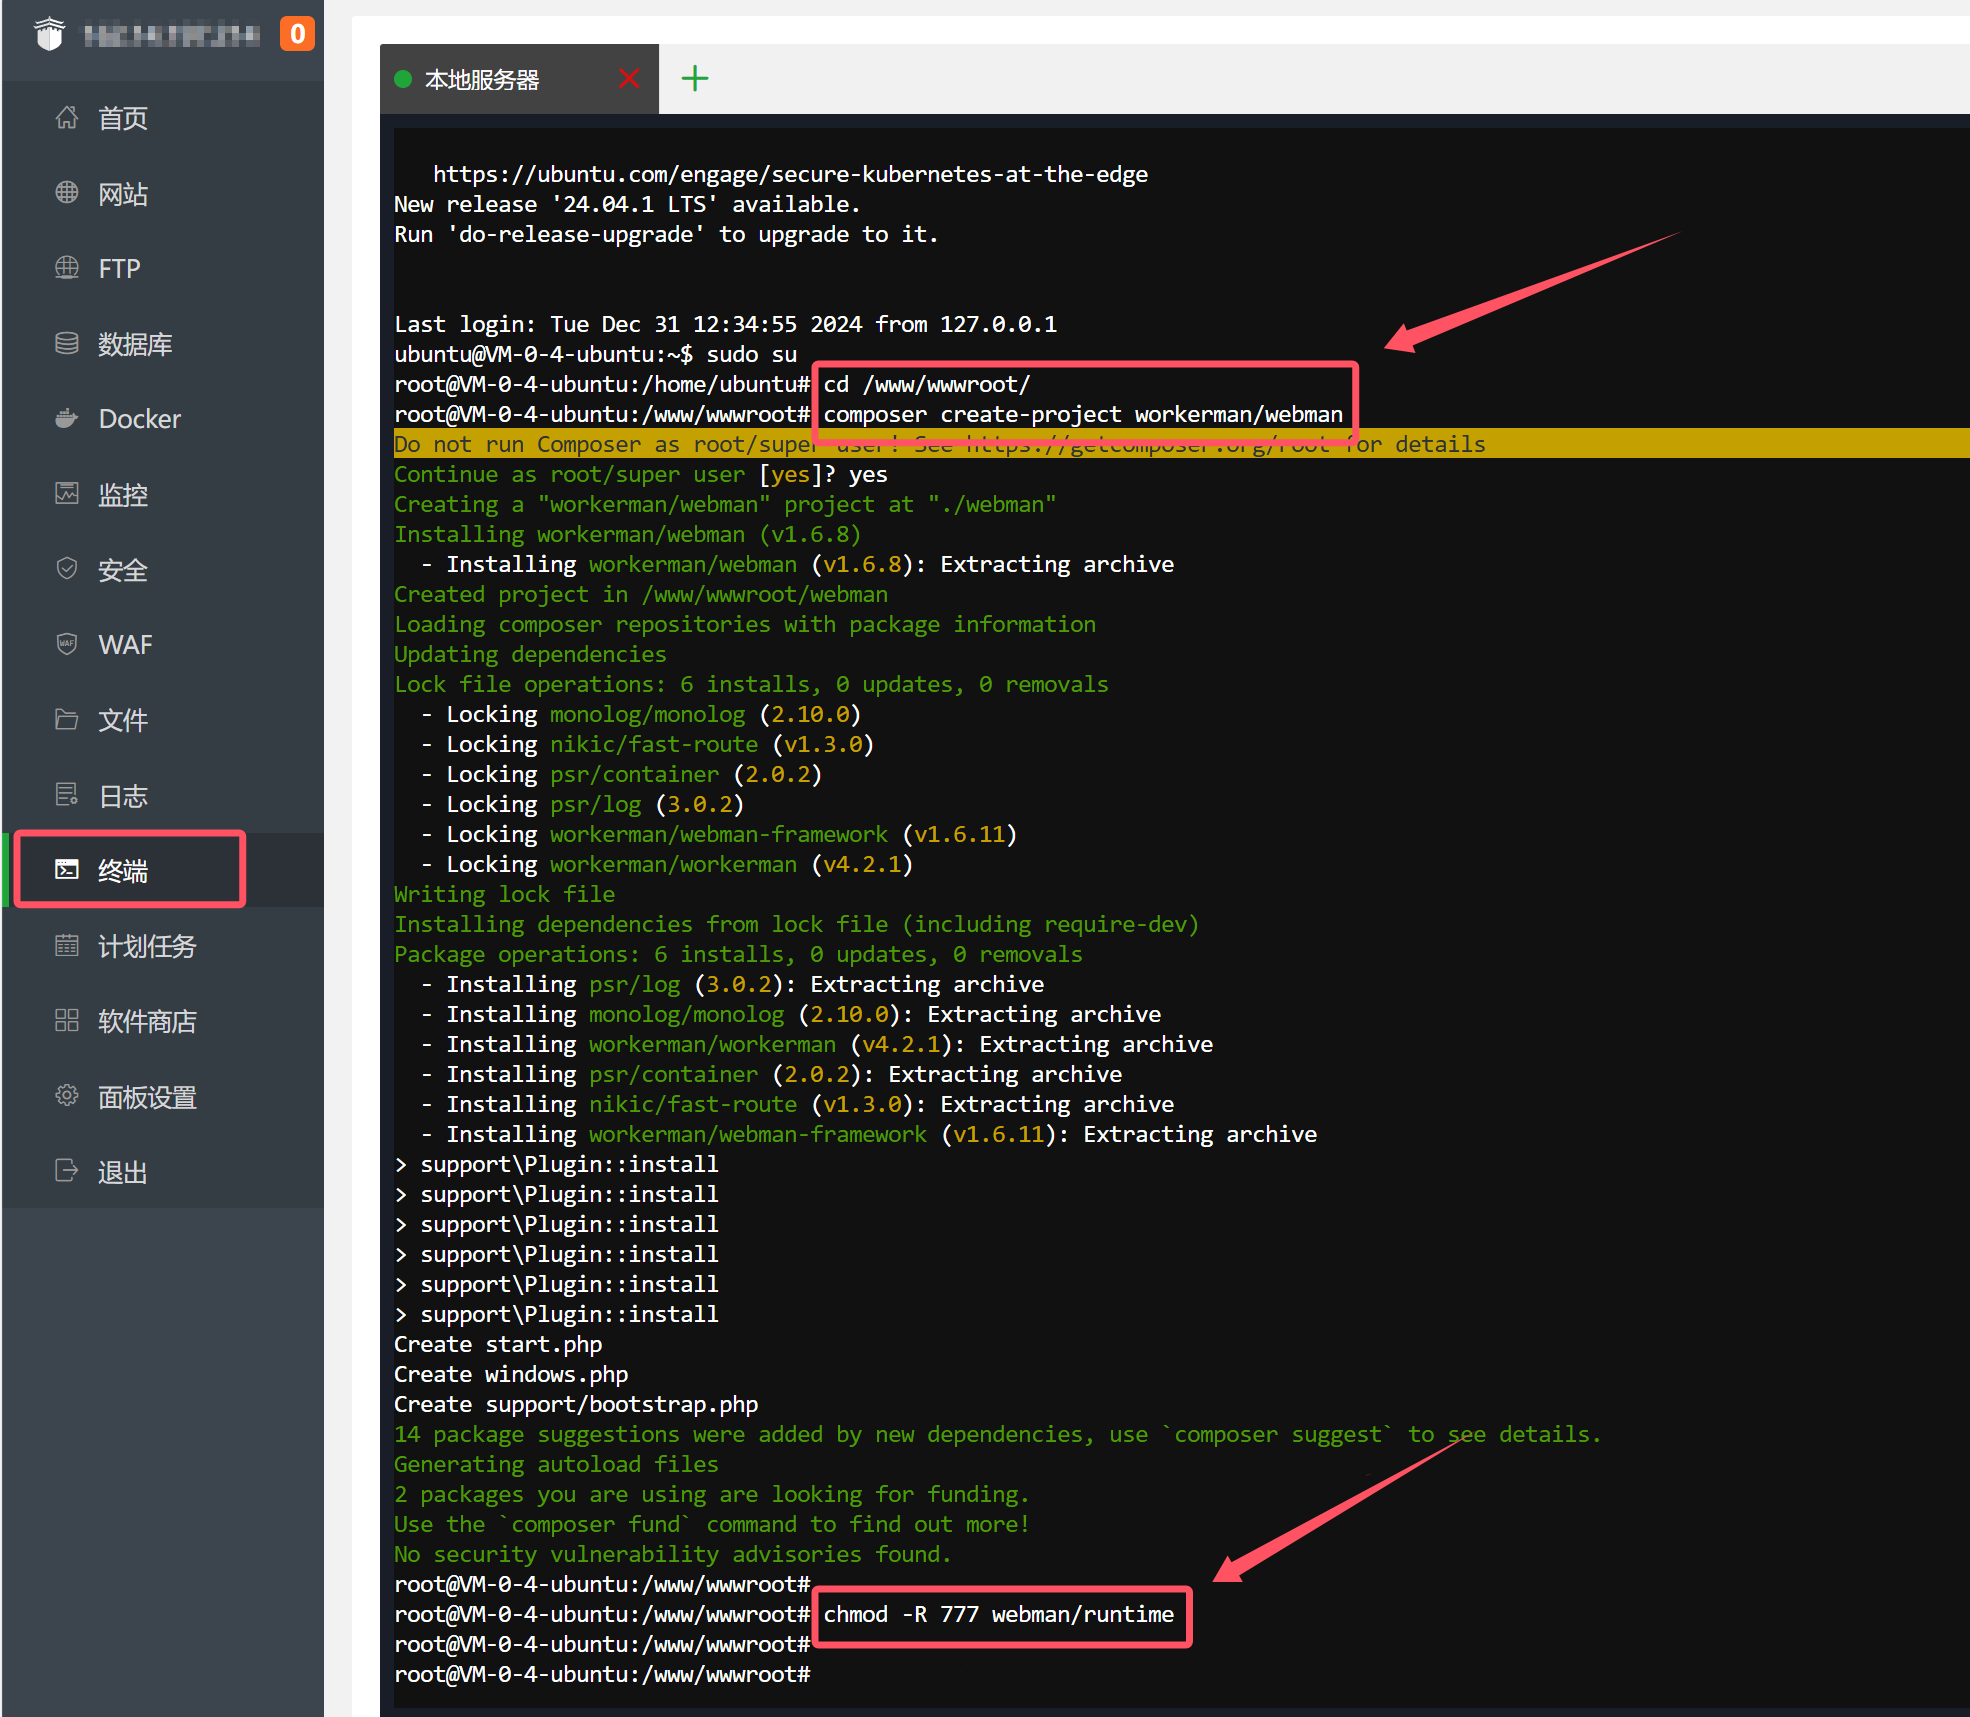
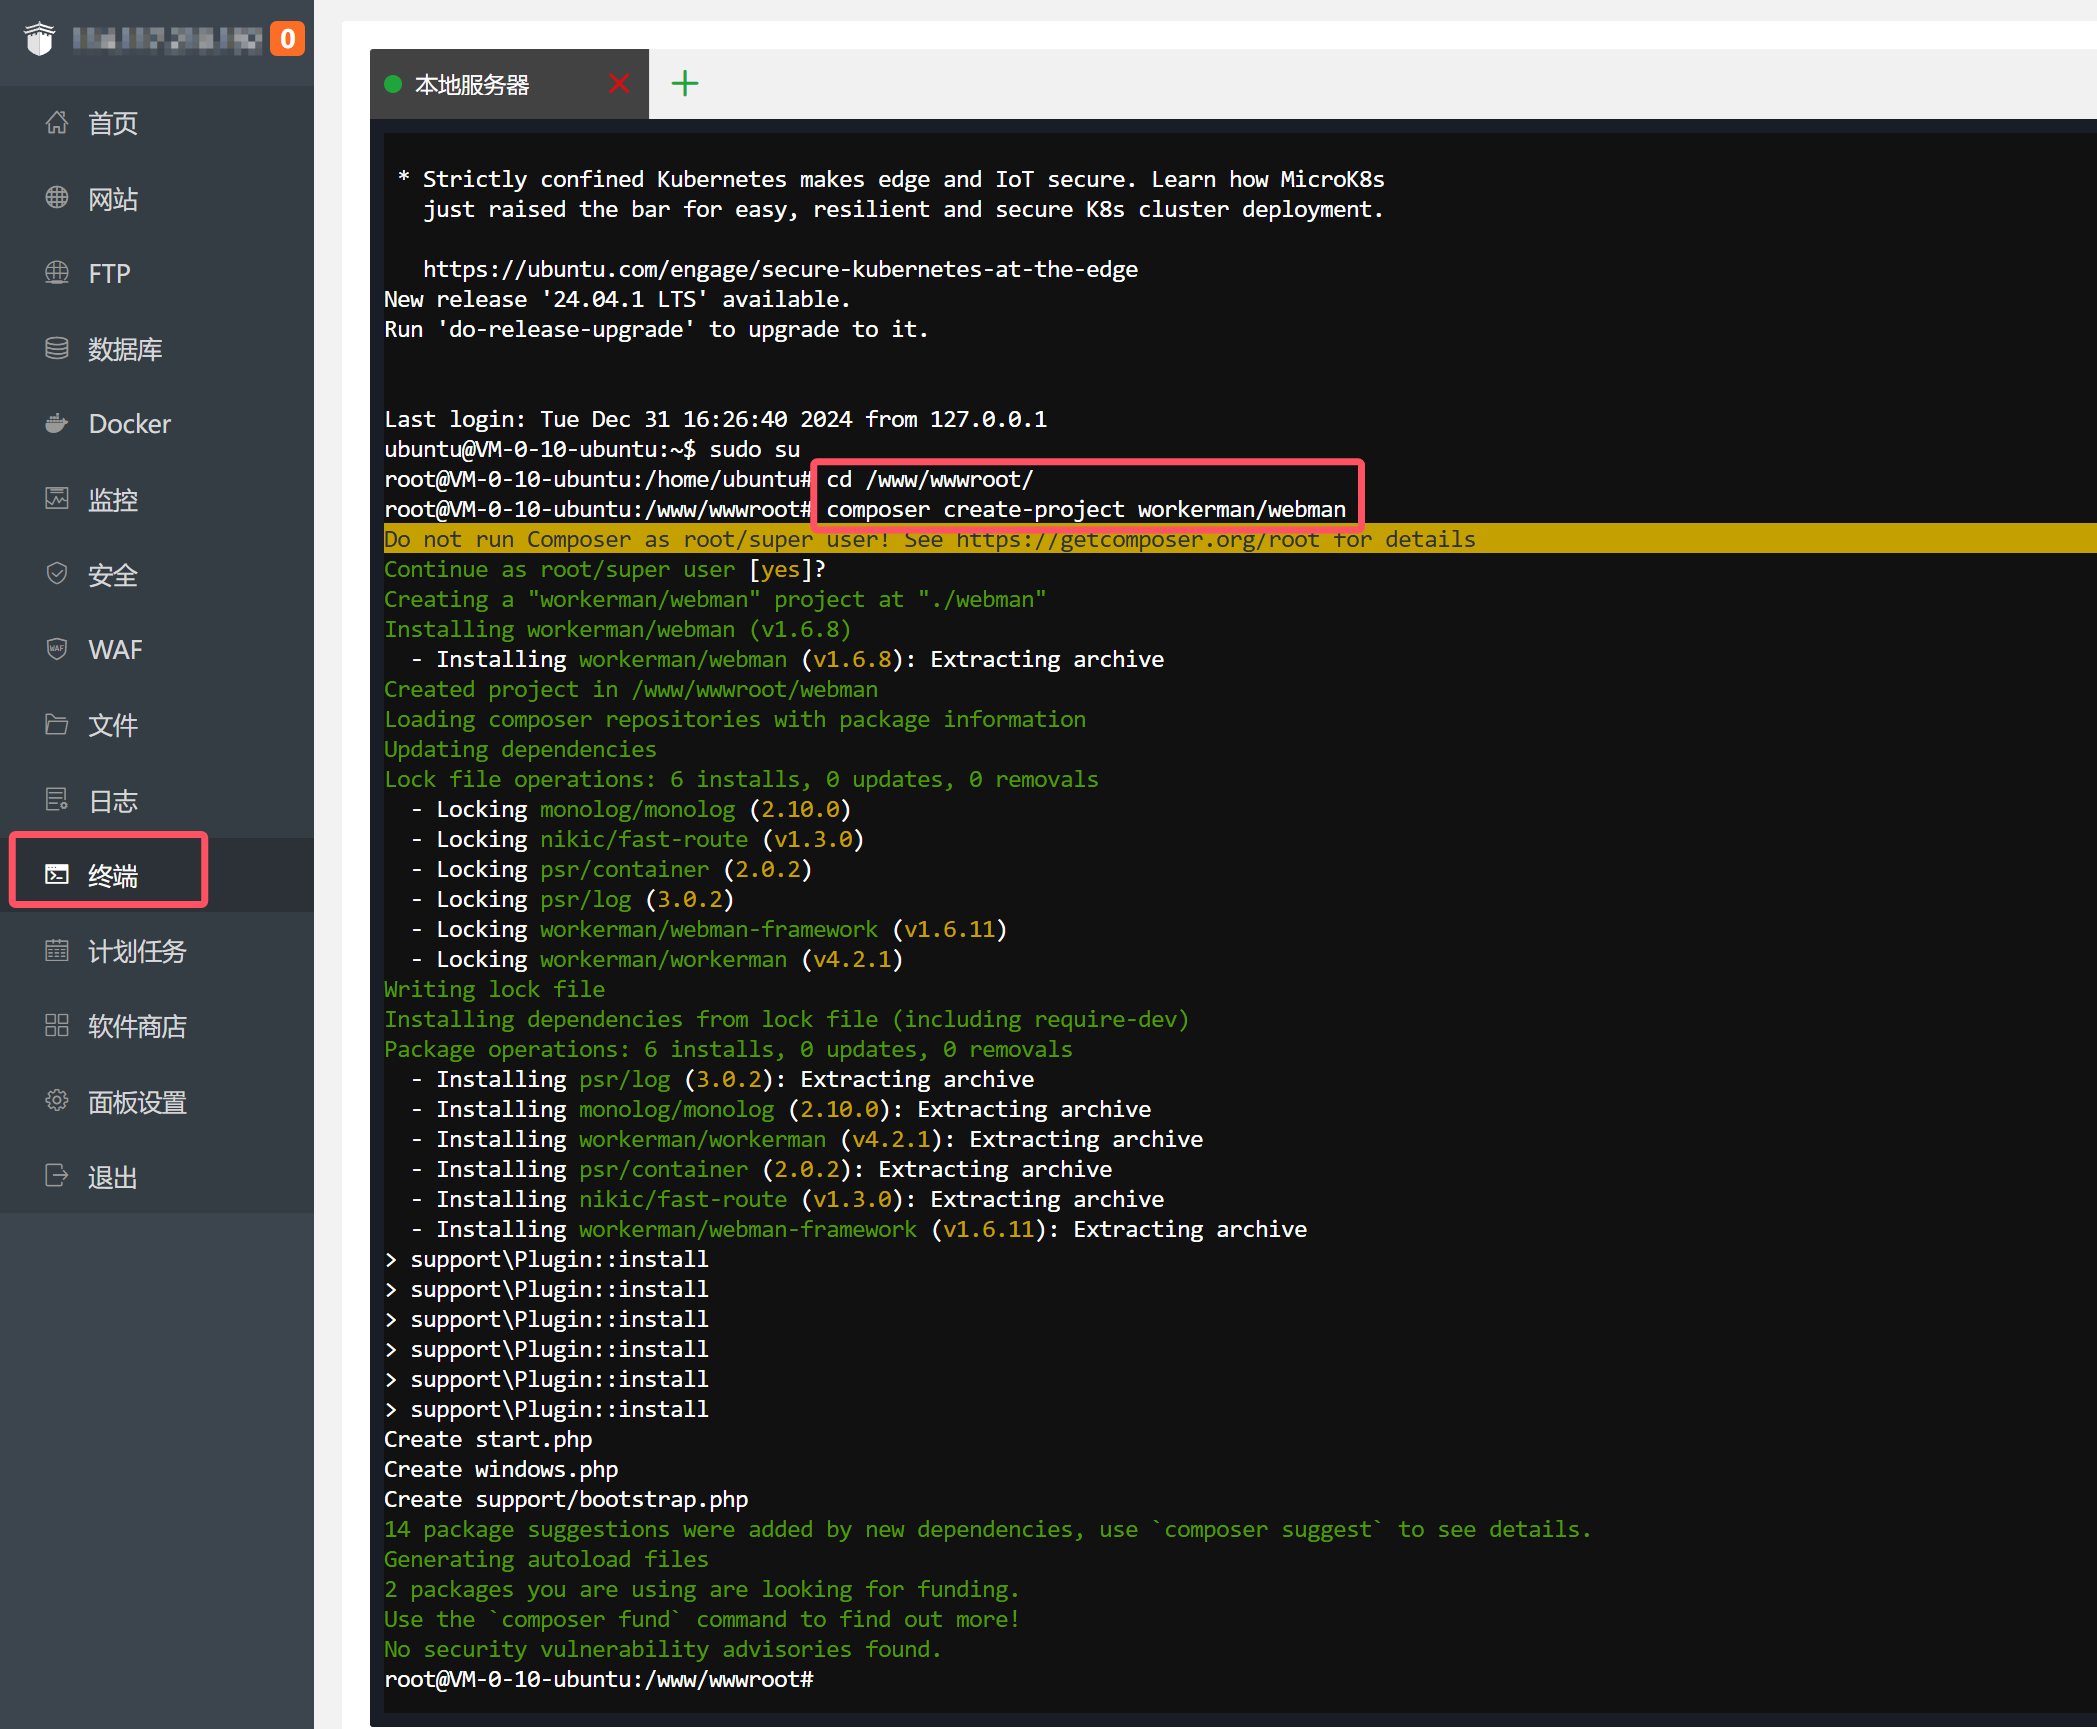
宝塔教程

diff --git a/resource/doc/zh-cn/bt-install.md b/resource/doc/zh-cn/bt-install.md
@@ -11,7 +11,6 @@
 ```php
 cd /www/wwwroot
 composer create-project workerman/webman
-chmod 777 webman/runtime -R
 ```
 
 ### 2. 设置网站
@@ -52,10 +51,18 @@ chmod 777 webman/runtime -R
   }
 ```
 
-### 6. 重启服务
+### 6. 给runtime可写权限
+
 ![](../assets/img/bt-install-6.png)
 
+```
+chmod -R 777 /www/wwwroot/webman/runtime
+```
 
-### 7. 访问站点
+### 7. 重启服务
+![](../assets/img/bt-install-7.png)
+
+
+### 8. 访问站点
 
 访问站点 `http://example.com` 即可看到webman的欢迎页面
